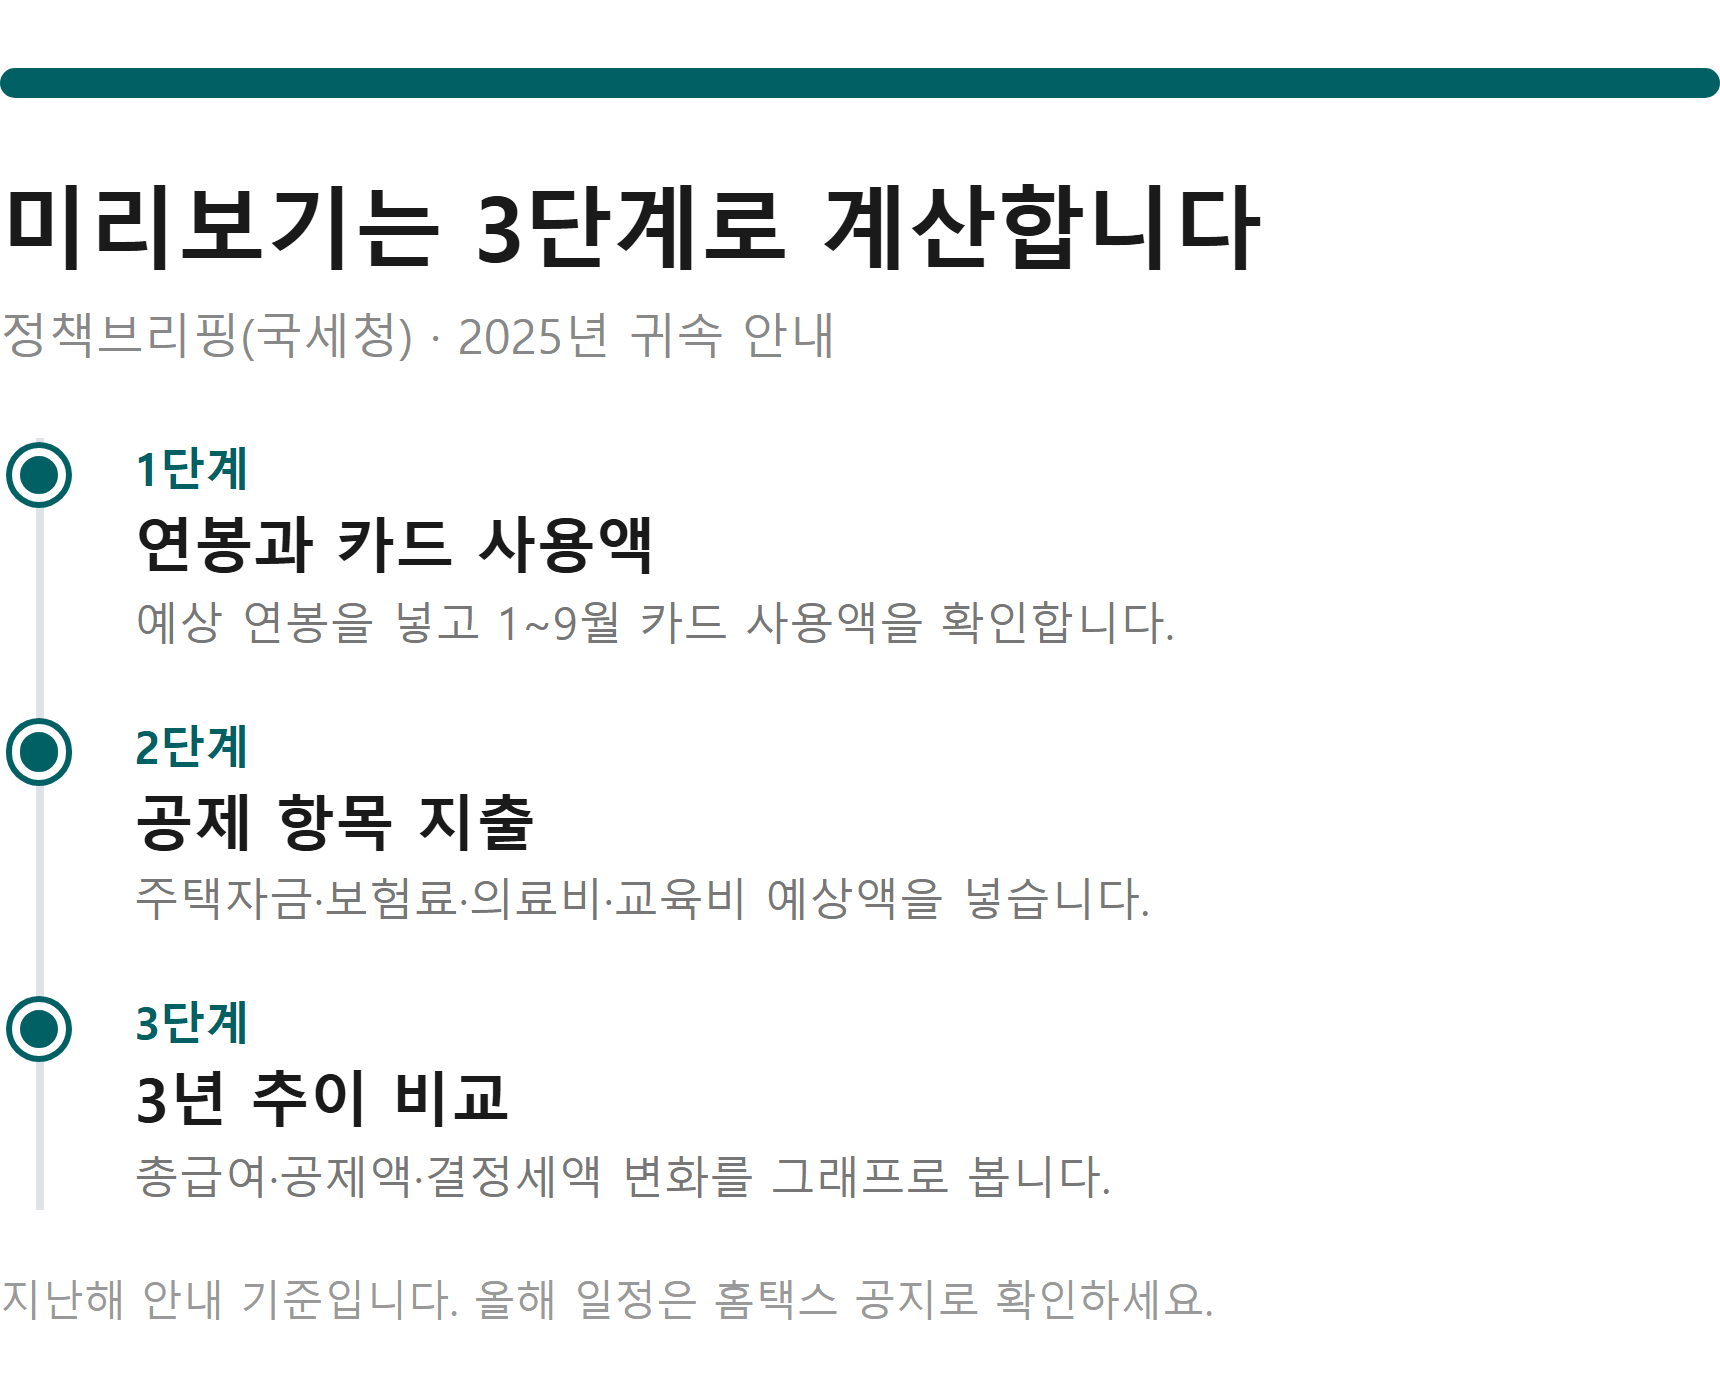
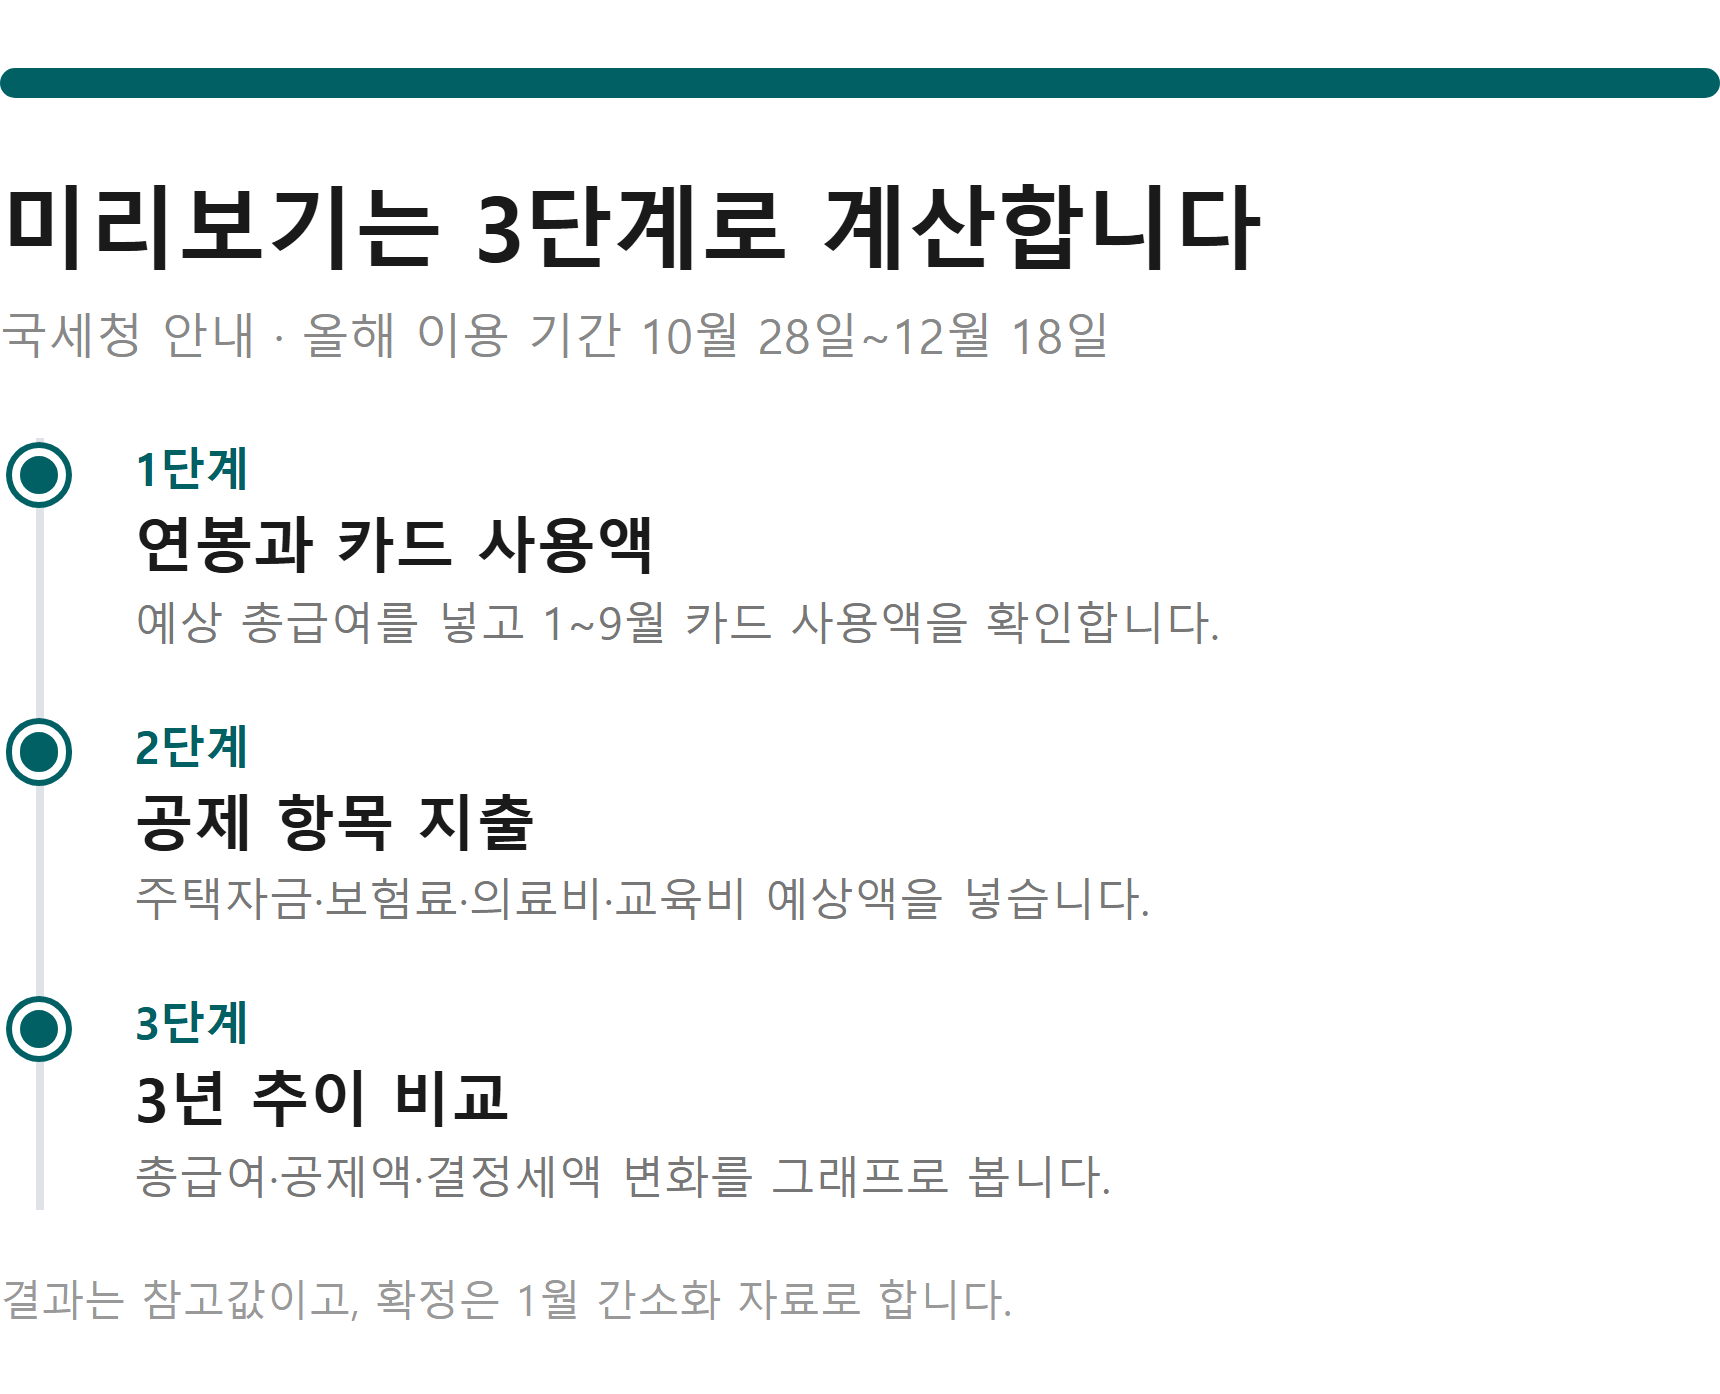
29편: 10-28에 열린 연말정산 미리보기를 미개통으로 썼던 것 수정 + 미개통 표현 검사
10-30에 "아직 개통 소식을 확인하지 못했다"고 썼는데 미리보기는 10-28에 이미 열려 있었다
(이용 기간 10월 28일~12월 18일, 10-26 기사가 국세청 인용). 지난해 안내 위주로 찾고 멈췄고,
제목·도입·요약·1번 섹션·카드 63이 모두 "열리기 전" 기준으로 나갔다. 사용자가 지적해 알았다.

check_naver가 이런 문장을 전혀 보지 않았다. 27편부터 `아직 … 개통·발표·공지`류가 본문에 있으면
`- 일정 재확인: 날짜 | 검색어` 없이는 실패한다. 수정 전 29편으로 돌려 실패를 확인했고 selftest에 고정했다.

올해 기간의 국세청 원문은 찾지 못했다(보도자료 목록 1쪽·정책브리핑에 없음). 종료일은 기사 값이다 — 원고 ⚠에 남겼다.
올해 개정 공제(자녀별 카드 한도 등)는 공식 자료가 없어 본문에서 뺐다.

Changed region(s): [[0.0, 0.2159, 0.6471, 0.2776], [0.0, 0.8945, 0.7087, 0.9562], [0.1233, 0.4319, 0.7087, 0.4627]]

diff --git a/check_naver.py b/check_naver.py
@@ -365,6 +365,7 @@ PRIMARY_DOMAINS = ("nts.go.kr", "hometax.go.kr", "law.go.kr", "korea.kr", "gov.k
 GUARANTEE_RE = re.compile(r'무조건 (받|환급|돌려)|100% (환급|받|돌려)|반드시 (받|환급)을? 수|확실히 (받|환급)')
 CLICK_RE = re.compile(r'광고.{0,8}(클릭|눌러)|클릭해 주세요')
 HYPOTHETICAL_RE = re.compile(r'가상|예시|계산 예|가정')
+UNOPENED_RE = re.compile(r'아직.{0,12}(개통|발표|공지|공고)|(개통|발표|공지|공고)\S* ?(소식을 )?확인하지 못')
 
 
 def title_skeleton(title: str) -> str:
@@ -462,6 +463,10 @@ def quality_issues(md: str, body: str, text: str, tags: list) -> list:
         used = {x.group(1) for x in UNIT_NUM.finditer(sec)}
         if used & calc and not HYPOTHETICAL_RE.search(sec):
             issues.append(f'계산 값이 있는 섹션에 가상 사례·예시 표시가 없다: {sec.splitlines()[0][:20]}')
+
+    # "아직 안 열렸다"류는 쓰는 날 다시 찾았다는 기록이 있어야 한다 — 29편이 10-28에 열린 서비스를 10-30에 미개통으로 썼다
+    if (m := UNOPENED_RE.search(text)) and not re.match(r'\d{4}-\d\d-\d\d \| \S', memo_value(md, '일정 재확인') or ''):
+        issues.append(f'"{m.group(0)}" — 올해 이름·날짜로 다시 검색하고 `- 일정 재확인: YYYY-MM-DD | 검색어`를 적는다')
 
     # Hard Block
     if m := GUARANTEE_RE.search(text):
@@ -928,6 +933,9 @@ def selftest():
     qfails("## 가상 사례로 계산하면\n\n가상 사례입니다.", "## 받는 돈 계산\n\n정리하면 이렇습니다.", "가상 사례·예시 표시")
     assert qissues(qdoc.replace("가상 사례입니다.", "정리하면 이렇습니다."))[0] == []      # 소제목에 가상이 있으면 된다
     # T7·Hard Block
+    qfails("조건이 있습니다.", "아직 개통 소식을 확인하지 못했습니다.", "일정 재확인")
+    assert not any("일정 재확인" in i for i in qissues(qdoc.replace("조건이 있습니다.", "아직 개통 소식을 확인하지 못했습니다.").replace(
+        "- 고유 근거:", "- 일정 재확인: 2026-10-31 | 2026 연말정산 미리보기 개통\n- 고유 근거:"))[0])
     qfails("조건이 있습니다.", "무조건 받을 수 있습니다.", "결과 보장")
     qfails("조건이 있습니다.", "광고를 클릭해 주세요.", "클릭 유도")
     qfails("## 근거 자료\n\n- 국민연금법", "## 근거 자료\n\n- 국민연금법 제61조\n\n## 덧붙임\n\n- 국민연금법", "맨 끝")

diff --git a/make_naver_images.py b/make_naver_images.py
@@ -900,11 +900,11 @@ CARDS = {
          ("2년 넘게 지남 (감면 없음)", "30,000원", 100)],
         "납부지연 가산세는 감면과 별개로 날짜만큼 붙습니다."),
     "63_미리보기_3단계": timeline_card(
-        post_look(29), "미리보기는 3단계로 계산합니다", "정책브리핑(국세청) · 2025년 귀속 안내",
-        [("1단계", "연봉과 카드 사용액", "예상 연봉을 넣고 1~9월 카드 사용액을 확인합니다."),
+        post_look(29), "미리보기는 3단계로 계산합니다", "국세청 안내 · 올해 이용 기간 10월 28일~12월 18일",
+        [("1단계", "연봉과 카드 사용액", "예상 총급여를 넣고 1~9월 카드 사용액을 확인합니다."),
          ("2단계", "공제 항목 지출", "주택자금·보험료·의료비·교육비 예상액을 넣습니다."),
          ("3단계", "3년 추이 비교", "총급여·공제액·결정세액 변화를 그래프로 봅니다.")],
-        "지난해 안내 기준입니다. 올해 일정은 홈택스 공지로 확인하세요."),
+        "결과는 참고값이고, 확정은 1월 간소화 자료로 합니다."),
     "64_문턱후_결제수단": bar_card(
         post_look(29), "문턱을 넘긴 뒤에는 공제액이 2배 차이", "가상 사례 · 공제 한도 미반영",
         [("신용카드 100만원", "소득공제 15만원", 50), ("체크카드·현금영수증 100만원", "소득공제 30만원", 100)],

diff --git a/content/naver/29_연말정산-미리보기.md b/content/naver/29_연말정산-미리보기.md
@@ -1,41 +1,42 @@
-제목: 2026 연말정산 미리보기 열리기 전에 | 작년 11월 5일 개통, 남은 카드 얼마 쓸까?
+제목: 2026 연말정산 미리보기 12월 18일까지 | 문턱 못 넘었을 때 남은 카드 얼마 쓸까?
 
 ---
 
-"연말정산 미리보기는 언제 열리고 뭘 알 수 있나요?"
+"연말정산 미리보기는 언제까지 되고 뭘 알 수 있나요?"
 
 [이미지 ①: 썸네일 — assets/naver_img/29_썸네일.png — AI 그림(S1). 출처 줄은 붙이지 않는다(왼쪽 아래 AI 활용 표시) — 제작 완료]
 
-2026 연말정산 미리보기는 아직 개통 소식을 확인하지 못했습니다. 지난해에는 **11월 5일**에 홈택스에서 열렸습니다.
+2026 연말정산 미리보기는 **10월 28일부터 12월 18일까지** 홈택스에서 이용할 수 있습니다. 지난해 11월 5일보다 일찍 열렸습니다.
 
-그런데 미리보기는 결과를 보는 서비스가 아닙니다. 1~9월 카드 사용액과 지난해 공제액으로 계산한 예상치라서, 남은 지출을 어떻게 쓸지 정하는 데 씁니다.
+그런데 미리보기는 결과를 확정하는 서비스가 아닙니다. 1~9월 카드 사용액과 지난해 자료로 계산한 예상치라서, 남은 지출을 어떻게 쓸지 정하는 데 씁니다.
 
-지난해 안내를 기준으로 쓰는 순서와 남은 카드 사용액 계산을 정리했습니다.
+올해 기간과 쓰는 순서, 남은 카드 사용액 계산을 정리했습니다.
 
 > [요약] 🐷 돼지가 먼저 알려줘요 (3초 요약)
-> - 지난해 미리보기는 11월 5일에 열렸습니다
+> - 올해 미리보기는 10월 28일부터 12월 18일까지입니다
 > - 1~9월 카드 사용액을 불러와 예상 세액을 계산합니다
 > - 3단계로 연봉·공제 항목을 넣고 3년 추이를 봅니다
 > - 카드 공제는 총급여의 25%를 넘긴 금액부터입니다
 > - 문턱을 넘긴 뒤 체크카드 공제율은 30%입니다
 
-## 1. 지난해 일정과 안내 방식
+## 1. 올해 기간과 지난해 차이
 
-국세청은 지난해 11월 5일 미리보기를 열고, 다음 날부터 항목별 **맞춤형 안내**를 시작했습니다. 안내는 올해 1월 31일까지 제공됐습니다.
+올해 미리보기는 **12월 18일에 끝납니다**. 이 기간 안에 들어가 남은 두 달 지출을 계산해 볼 수 있습니다. 실제 연말정산은 내년 1월입니다.
 
-안내는 카카오톡으로 먼저 보내고, 받지 못한 사람에게 네이버 전자문서로 다시 보냈습니다. 국세청은 문자나 전화로는 안내하지 않으니 피싱에 주의하라고 했습니다.
+지난해 맞춤형 안내는 카카오톡으로 먼저 보내고, 받지 못한 사람에게 네이버 전자문서로 다시 보냈습니다. 국세청은 문자나 전화로는 안내하지 않으니 피싱에 주의하라고 했습니다.
 
-| 구분 | 지난해(2025년 귀속) |
-|---|---|
-| 미리보기 개통 | 11월 5일 |
-| 맞춤형 안내 | 11월 6일 ~ 1월 31일 |
-| 카드 자료 범위 | 1~9월 사용액 |
+| 구분 | 올해(2026년 귀속) | 지난해(2025년 귀속) |
+|---|---|---|
+| 미리보기 개통 | 10월 28일 | 11월 5일 |
+| 미리보기 종료 | 12월 18일 | 확인 못 함 |
+| 맞춤형 안내 | 확인 못 함 | 11월 6일 ~ 1월 31일 |
+| 카드 자료 범위 | 1~9월 사용액 | 1~9월 사용액 |
 
-🪙 살림 메모: 올해 일정은 이 글을 쓰는 시점에 공식 발표를 확인하지 못했습니다. 지난해와 같다고 단정하지 말고 홈택스 공지를 보세요.
+🪙 살림 메모: 올해 기간은 국세청을 인용한 10월 26일 보도 기준입니다. 맞춤형 안내 일정은 올해 자료를 찾지 못해 지난해 값만 적었습니다.
 
 [내부 링크 ①: A안: 1월에 열리는 간소화 서비스 일정은 아래 글에서 따로 정리했습니다. | B안: 미리보기 다음 단계인 간소화 서비스는 아래 글을 보세요. | https://blog.naver.com/education_blog/224452380631]
 
-11월 초가 되면 홈택스 공지부터 확인하세요.
+12월 18일이 지나기 전에 한 번은 들어가 보세요.
 
 ---
 
@@ -43,7 +44,7 @@
 
 [이미지 ②: `assets/naver_img/63_미리보기_3단계.png` — 제작 완료]
 
-국세청이 안내한 이용 순서는 세 단계입니다. **1단계**는 전년도 지급명세서를 보고 올해 예상 연봉을 넣은 뒤 1~9월 카드 사용액을 확인하는 일입니다. 10월 이후 지출 예상액을 넣으면 카드 공제에 따른 절감 세액이 나옵니다.
+국세청이 안내한 이용 순서는 세 단계입니다. **1단계**는 지난해 지급명세서를 불러와 올해 예상 총급여와 기납부세액을 넣고 1~9월 카드 사용액을 확인하는 일입니다. 10월 이후 지출 예상액을 넣으면 카드 공제에 따른 절감 세액이 나옵니다.
 
 2단계는 주택자금, 보험료, 의료비, 교육비의 예상 연간 지출을 넣는 단계입니다. 그러면 올해 세법 기준의 공제액이 계산됩니다.
 
@@ -80,7 +81,7 @@
 
 미리보기는 지난 연말정산 자료를 기초로 계산합니다. 국세청은 **연봉이나 지출이 달라지면** 실제 결과도 달라진다고 안내합니다.
 
-일부 카드사 자료가 아직 제출되지 않아 사용액이 덜 보일 수도 있습니다. 부양가족 여부는 그해 12월 31일 상황으로 따집니다.
+일부 카드사 자료가 빠져 사용액이 덜 보일 수도 있습니다. 성년 자녀 자료를 보려면 별도 동의가 필요하고, 부양가족 여부는 그해 12월 31일 상황으로 따집니다.
 
 카드로 냈어도 공제되지 않는 지출도 있습니다. 자동차 구입, 보험료·공과금 납부, 대학등록금, 상품권 구입, 면세점 지출이 그렇습니다. 월세 세액공제를 받은 월세액도 빠집니다.
 
@@ -94,7 +95,7 @@
 
 ## 오늘의 살림 정리
 
-지난해 미리보기는 11월 5일에 열렸고, 1~9월 카드 사용액으로 예상 세액을 계산했습니다. 올해 일정은 홈택스 공지로 확인하고, 열리면 문턱까지 남은 금액부터 보세요.
+올해 미리보기는 12월 18일까지이고, 1~9월 카드 사용액으로 예상 세액을 계산합니다. 들어가면 문턱까지 남은 금액부터 보세요.
 
 연말 카드 사용을 고민하는 가족에게 이 글을 보내 주세요.
 
@@ -112,7 +113,8 @@
 ## 근거 자료
 
 - 국세청 「2025년 귀속 연말정산 미리보기 서비스 개통!」(정책브리핑) — 2025년 11월 게시
-- 정책브리핑(국세청) 「5일부터 13월의 월급 연말정산 미리 보기 서비스 시작」 — 2025년 11월 게시
+- 정책브리핑(국세청) 「연말정산 미리 보기 서비스 시작」 — 2025년 11월 게시
+- 더데일리이코노미 「연말정산 미리보기 28일 개통」(국세청 인용) — 2026년 10월 게시
 - 국세청 국세상담센터 Q&A 「신용카드 등 사용액」 — 2026년 10월 확인
 
 #연말정산미리보기 #연말정산미리보기기간 #홈택스연말정산 #연말정산2026
@@ -134,10 +136,11 @@
 - 클러스터: 연말정산-연말준비
 - 차별화 요소: 3단계 이용 순서 정리 | 남은 카드 사용액 가상 계산 | 안내 경로·피싱 주의 Q&A
 - 고유 근거: primary_source_comparison | verified_calculation
-- 적용 기준일: 2026-10-30 (2025년 귀속 안내 기준, 2026년 귀속 안내 미확인)
+- 적용 기준일: 2026-10-31 (2026년 귀속 기간은 보도 기준, 이용 방법 세부는 2025년 귀속 국세청 안내)
 - 내부 링크 대상: 24 | 18
 - 출처: 정책브리핑(국세청) | 2025년 귀속 연말정산 미리보기 서비스 개통! | https://www.korea.kr/news/policyNewsView.do?newsId=148954467 | 2026-10-30
 - 출처: 정책브리핑(국세청) | 5일부터 13월의 월급 연말정산 미리 보기 서비스 시작 | https://www.korea.kr/news/policyNewsView.do?newsId=148954010 | 2026-10-30
+- 출처: 더데일리이코노미(국세청 인용) | 연말정산 미리보기 28일 개통 | https://www.thedailyeconomy.kr/news/articleView.html?idxno=6564 | 2026-10-31
 - 출처: 국세청 | 연말정산 자주묻는Q&A 27.신용카드 등 사용액 | https://call.nts.go.kr/call/qna/selectQnaInfo.do?ctgId=CTG11898&mi=1318 | 2026-10-30
 - 내부 링크: 24(연말정산 간소화, logNo 224452380631) · 18(연말정산 소득공제, logNo 224444853695)
 - 이미지: ① 썸네일(scene, `--gen 29` 3번 선택) · ② 미리보기 3단계 카드(63) · ③ 문턱 넘은 뒤 결제 수단별 공제 카드(64)
@@ -146,6 +149,8 @@
 
 | 항목 | 값 | 출처·식 | 확인일 | 상태 |
 |---|---|---|---|---|
+| 올해 이용 기간 | 10월 28일 ~ 12월 18일 | 더데일리이코노미 2026-10-26 게시("26일 국세청에 따르면"), 사용자가 개통 확인 | 2026-10-31 | VERIFIED |
+| 올해 기간 보도일 | 10월 26일 | 더데일리이코노미 2026-10-26 게시 | 2026-10-31 | VERIFIED |
 | 지난해 개통일 | 11월 5일 | 정책브리핑(국세청) 2025-11-05 게시 | 2026-10-30 | VERIFIED |
 | 맞춤형 안내 기간 | 11월 6일 ~ 1월 31일 | 정책브리핑(국세청) 2025-11-05 게시 | 2026-10-30 | VERIFIED |
 | 3단계 비교 범위 | 최근 3년 | 정책브리핑(국세청) 2025-11-10 게시 | 2026-10-30 | VERIFIED |
@@ -157,9 +162,9 @@
 | 가상 사례 공제액 | 100만원 결제 → 신용카드 15만원, 체크카드 30만원 | 100 × 0.15 = 15, 100 × 0.3 = 30 | 2026-10-30 | 계산 |
 
 - ⚠ 발행 전 확인할 것
-  1. **2026년 귀속 미리보기 개통일과 안내 내용을 확인하지 못했다.** 본문의 일정·방식은 전부 2025년 귀속 안내다. 발행 시점에 공지가 나왔으면 도입과 1번 섹션을 고친다
+  1. **올해 기간(10월 28일~12월 18일)의 국세청 원문을 찾지 못했다.** 국세청 보도자료 목록 1쪽(10-05~10-29)에 없고 정책브리핑에서도 못 찾았다. 근거는 국세청을 인용한 10-26 기사이고, 개통은 사용자가 확인했다. 종료일은 기사 값이다. 공제 항목·한도·이용 단계 세부는 2025년 귀속 안내를 함께 쓴다
   2. 국세상담센터 Q&A에는 게시일이 없다. 25%가 2026 귀속에도 같은지 확인하지 못했다
   3. 홈택스 메뉴 경로는 2025-11-10 안내에 있었지만 개편될 수 있어 본문에 쓰지 않았다
   4. "부양가족 여부는 12월 31일 상황으로 따진다"는 2025-11-05 FAQ 요지를 옮겼다. 기사 요약으로 읽었으니 원문 문장을 한 번 더 본다
   5. 가상 사례는 공제 한도와 전통시장·대중교통 공제를 넣지 않았다
-- 본문에서 뺀 것: 맞춤형 안내 52만 명·월세 15만 명 수치, 연금계좌 중도해지 등 해지 가산세, 고향사랑기부금, 자녀 동의 출생연도, 홈택스 메뉴 경로
+- 본문에서 뺀 것: 올해 달라진 카드 한도(자녀 수별)·교육비 소득요건·월세 등 — 기사·블로그에만 있고 공식 자료를 찾지 못했다. 맞춤형 안내 52만 명·월세 15만 명 수치, 연금계좌 중도해지 등 해지 가산세, 고향사랑기부금, 자녀 동의 출생연도, 홈택스 메뉴 경로
